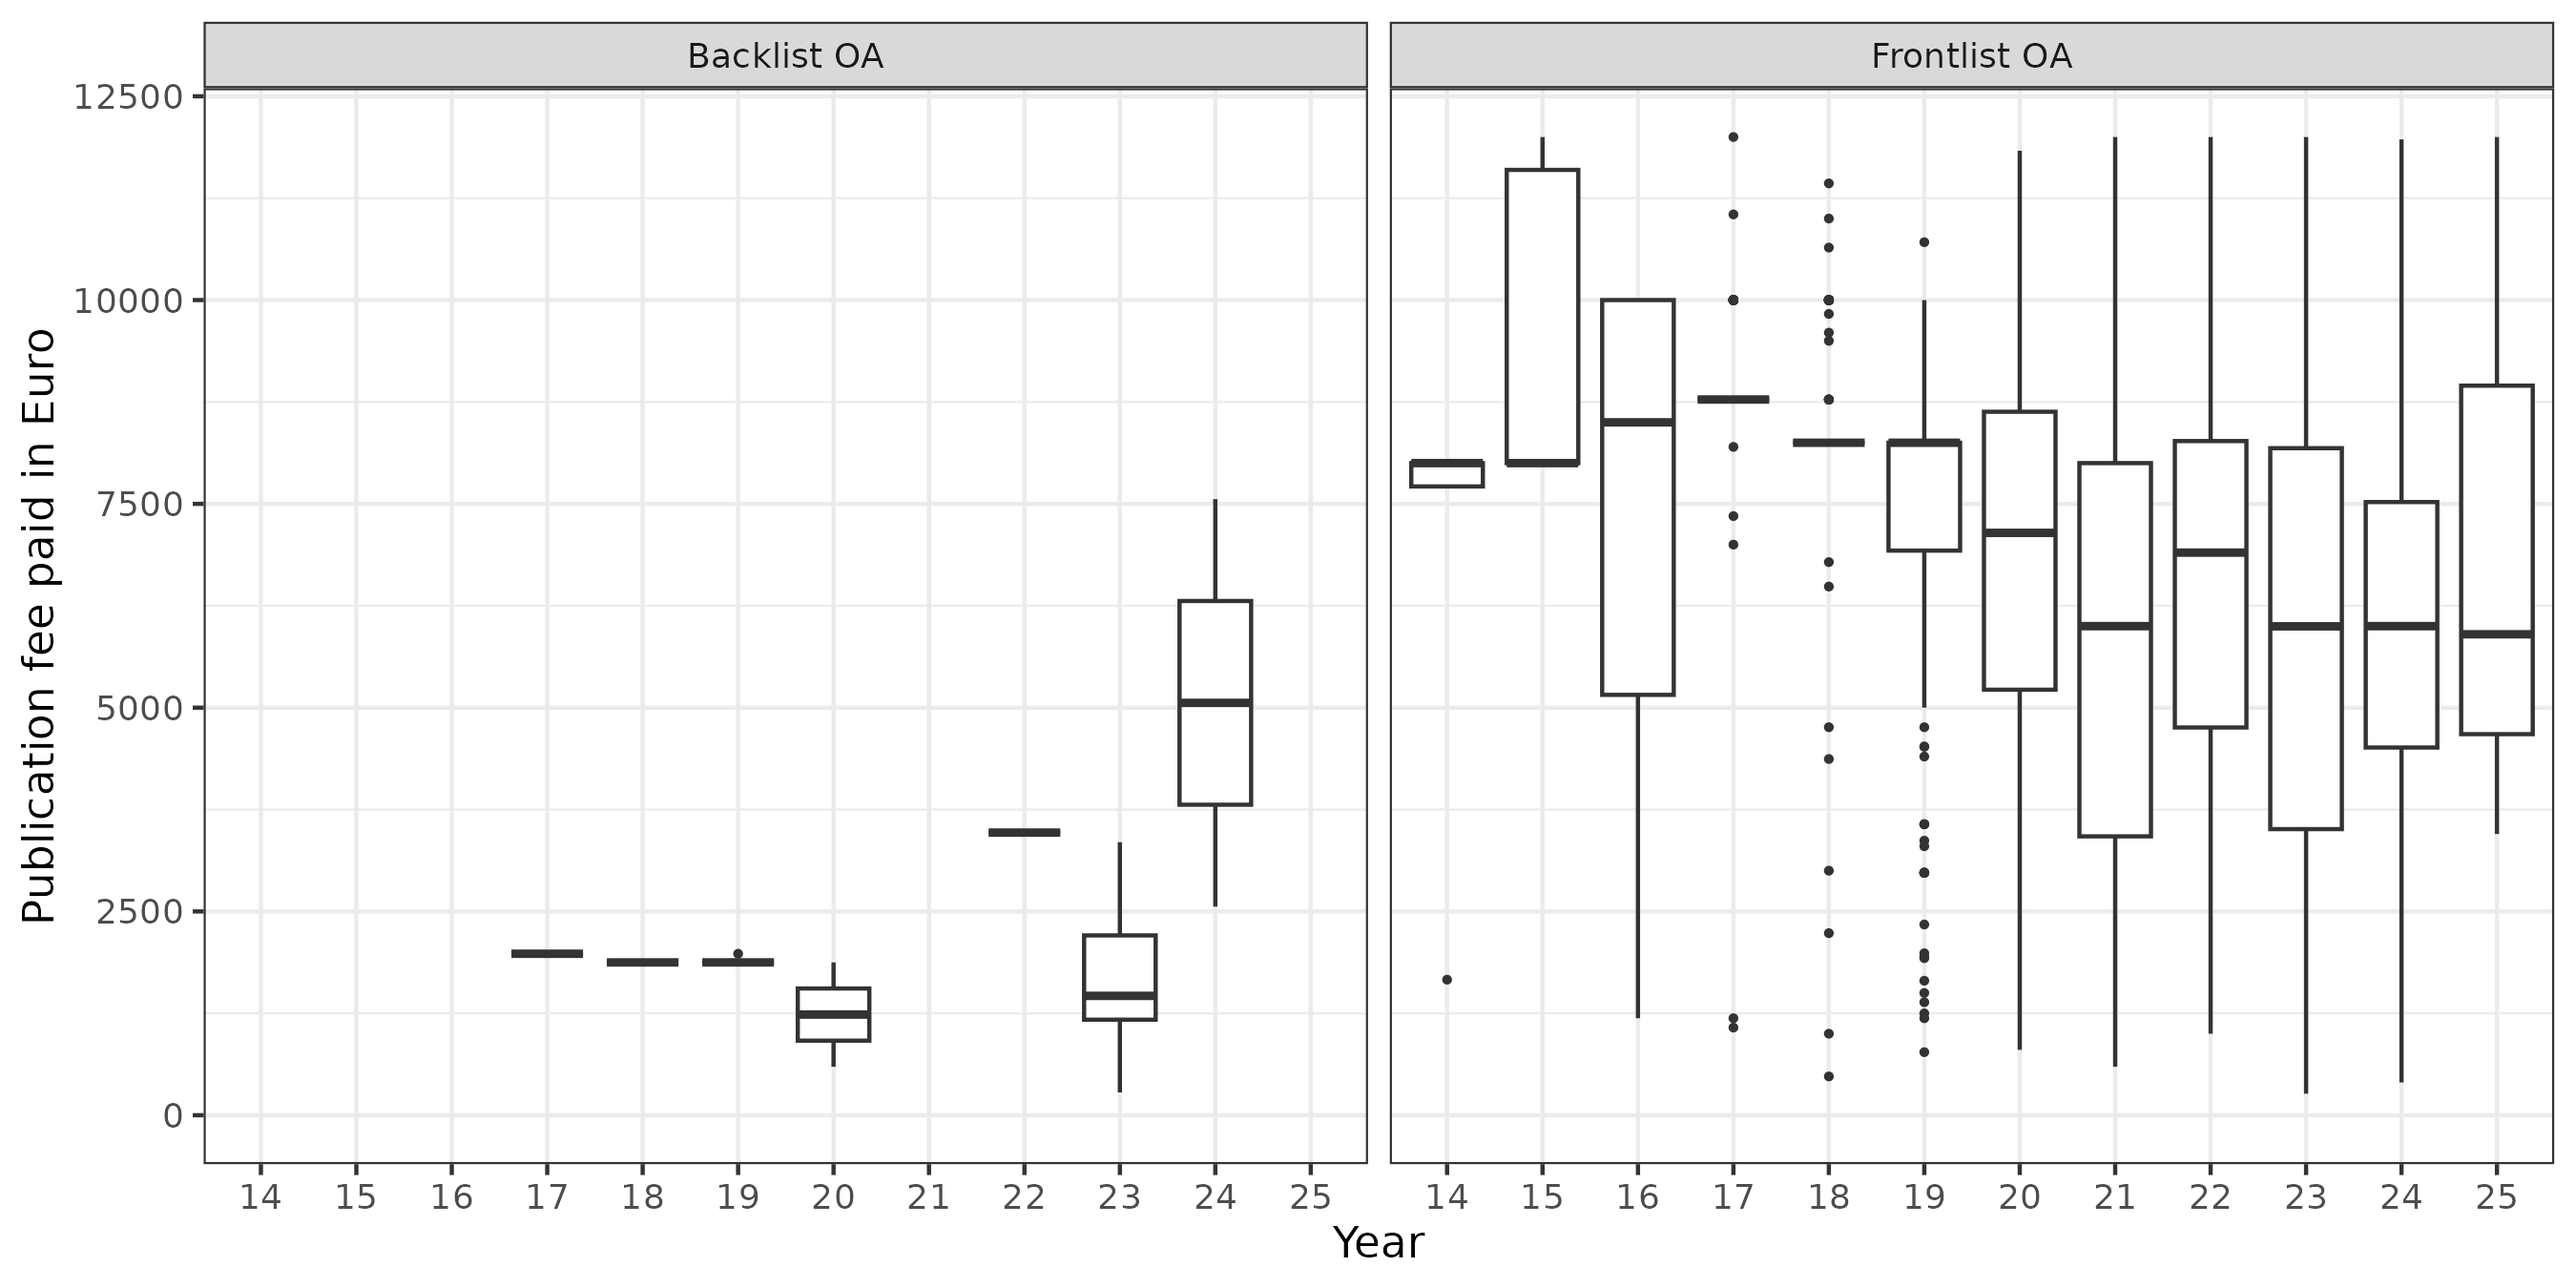
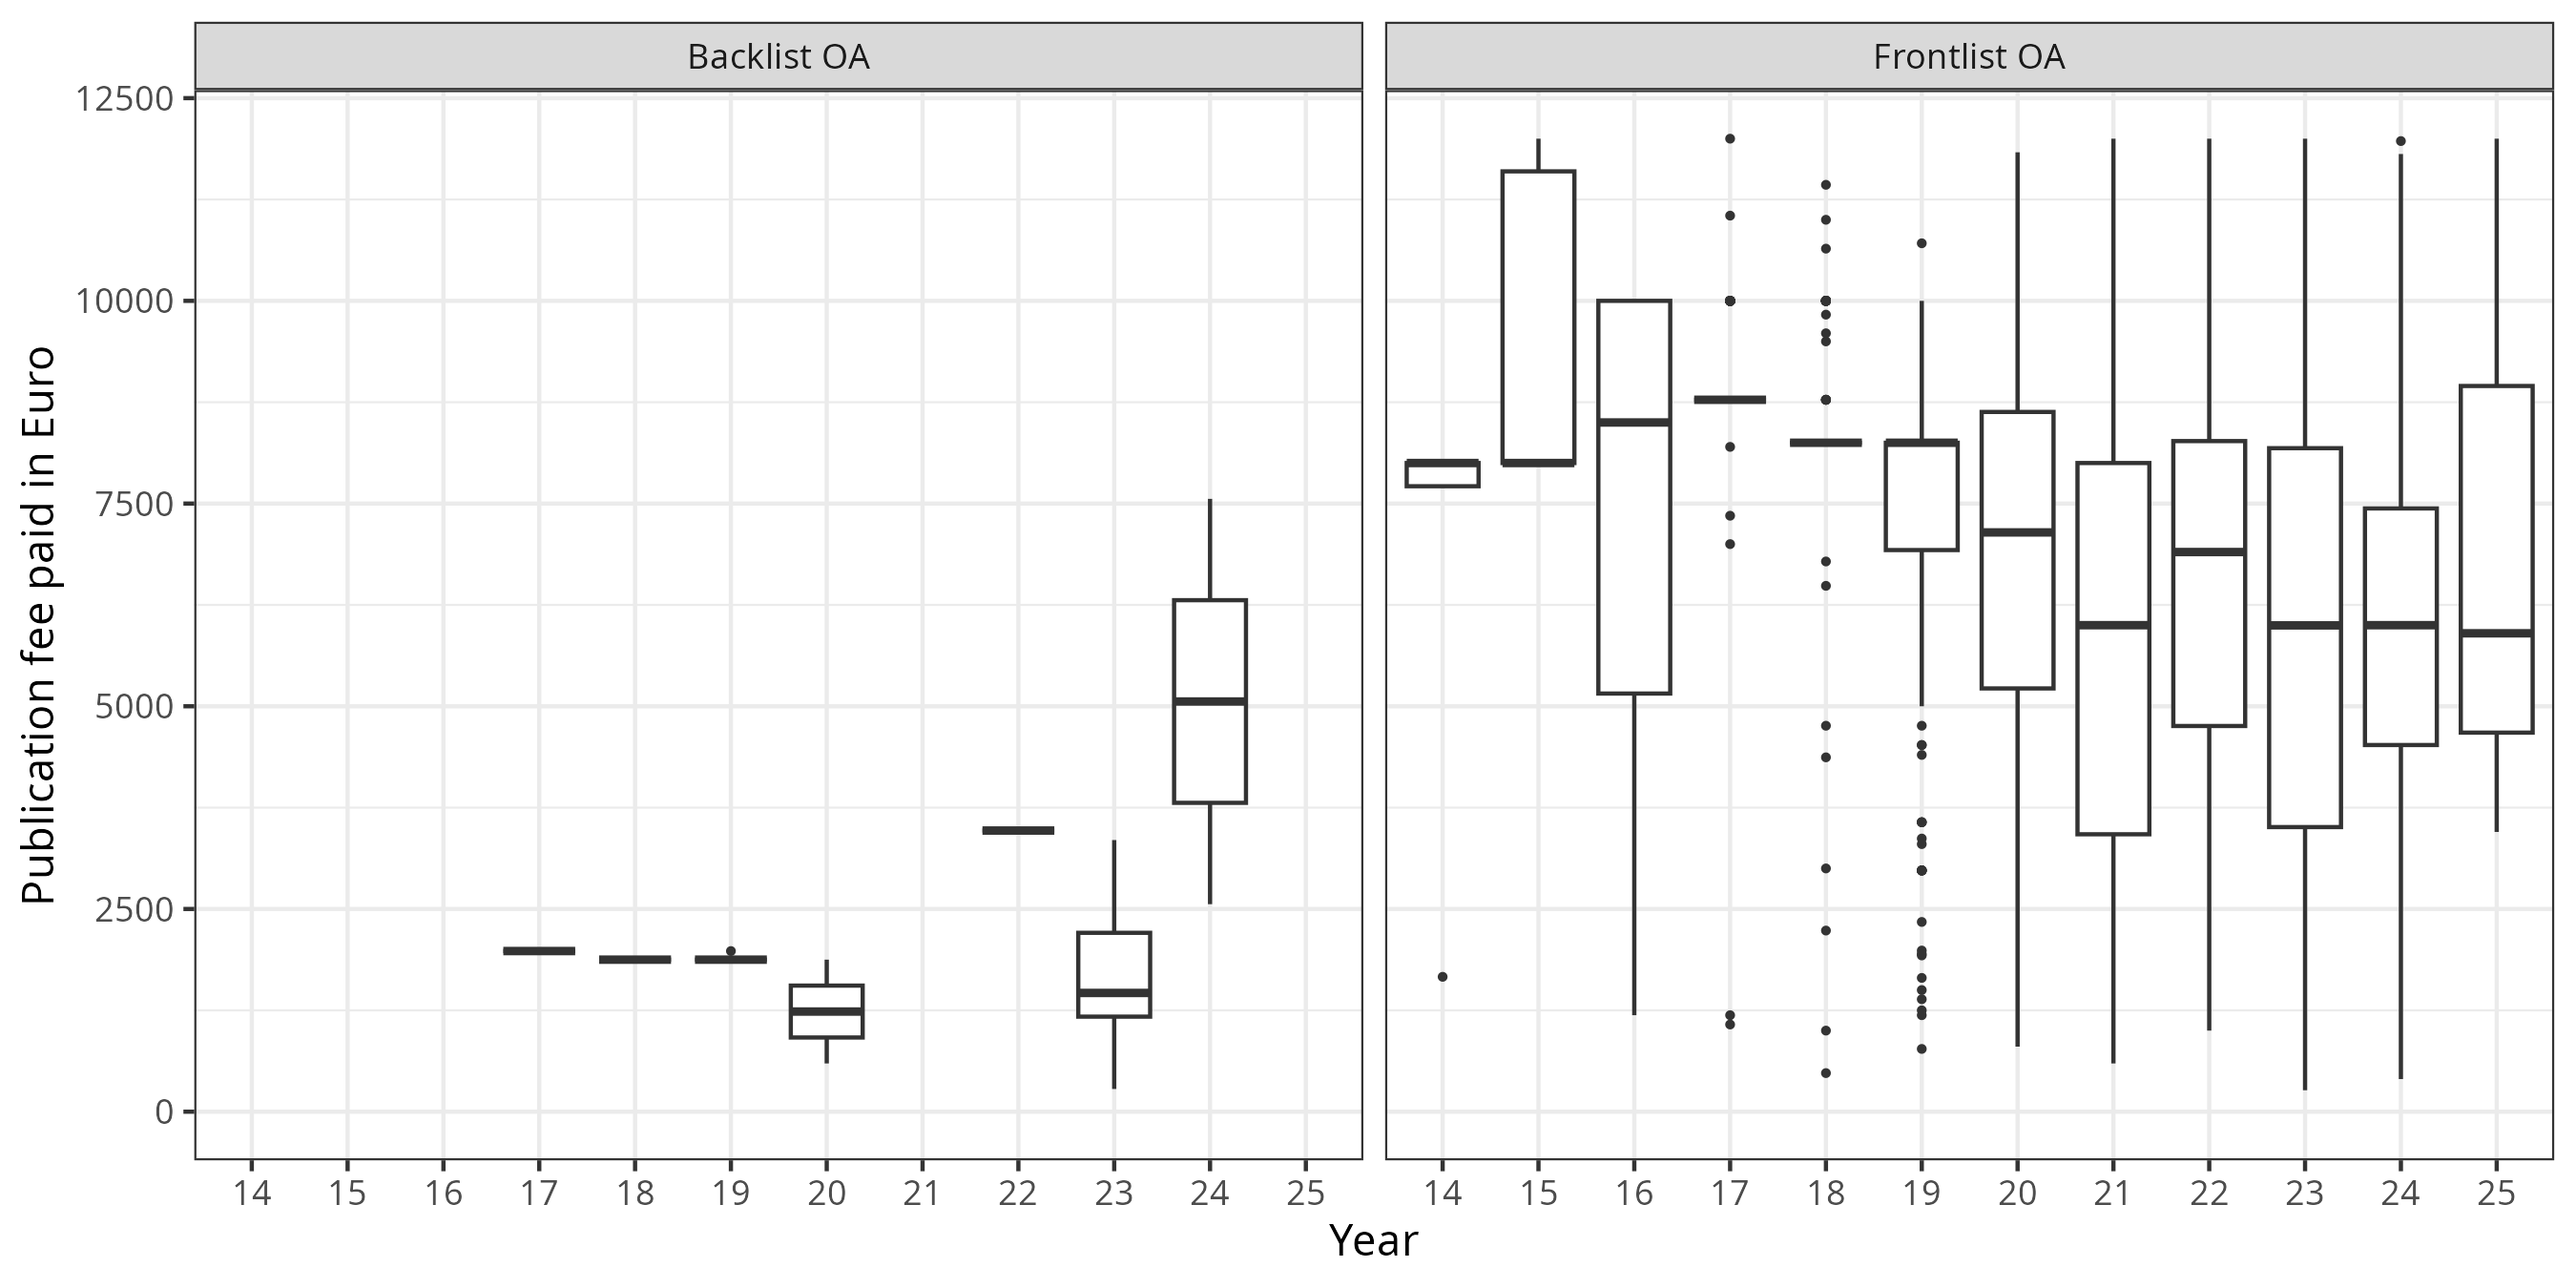
data added to collection

diff --git a/README.md b/README.md
@@ -17,7 +17,7 @@ At the moment this project provides the following cost data:
 | Publication Type | Count           | Aggregated Sum (€)      | Contributing Institutions              |
 |------------------|-----------------|-------------------------|----------------------------------------|
 | Articles         |251,639 | 512,277,113    | 468 |
-| Monographs       |2,260 | 15,017,945    | 93 |
+| Monographs       |2,262 | 15,031,085    | 93 |
 
 ## How to access the data?
 
@@ -959,9 +959,9 @@ This plot shows the cost distribution grouped by publishers. It includes only ar
 
 ### Books (BPCs)
 
-The book data set contains information on 2,260 open access books. Publication fees were supported financially by 93 research performing institutions and funders. 
+The book data set contains information on 2,262 open access books. Publication fees were supported financially by 93 research performing institutions and funders. 
 
-In total, book processing charges covered by the OpenAPC initiative amounted to € 15,017,945. The average payment was € 6,645 and the median was € 6,744.
+In total, book processing charges covered by the OpenAPC initiative amounted to € 15,031,085. The average payment was € 6,645 and the median was € 6,744.
 
 Books can be made Open Access right from the beginning ("frontlist") or only retroactively after having been published traditionally in the first place ("backlist"), which can have a big influence on the paid BPCs.
 
@@ -987,7 +987,7 @@ Books can be made Open Access right from the beginning ("frontlist") or only ret
 |2021   |             174|    6,974|      6,561|   595 - 18,000|             NA|       NA|         NA|            NA|
 |2022   |             230|    7,578|      6,902| 1,000 - 50,000|              1|    3,467|      3,467| 3,467 - 3,467|
 |2023   |             322|    6,865|      6,460|   265 - 22,000|              7|    1,693|      1,464|   280 - 3,350|
-|2024   |             120|    8,165|      6,557|   402 - 46,372|              2|    5,059|      5,059| 2,559 - 7,558|
+|2024   |             122|    8,139|      6,557|   402 - 46,372|              2|    5,059|      5,059| 2,559 - 7,558|
 |2025   |               3|    7,117|      5,900| 3,450 - 12,000|             NA|       NA|         NA|            NA|
 
 
@@ -1033,7 +1033,7 @@ Metadata representing publication titles or publisher names is obtained from Cro
 
 |Identifier                 | Coverage (articles)                                               | Coverage (Books)                                            |
 |:--------------------------|:------------------------------------------------------------------|-------------------------------------------------------------|
-|DOI                        |  99.76%       |88.81%   |
+|DOI                        |  99.76%       |88.82%   |
 |PubMed ID                  |  73.29%      | NA                                                          |
 |PubMed Central ID          |  67.82%     | NA                                                          |
 |Web of Science record ID   | 65.49%         | NA                                                          |
